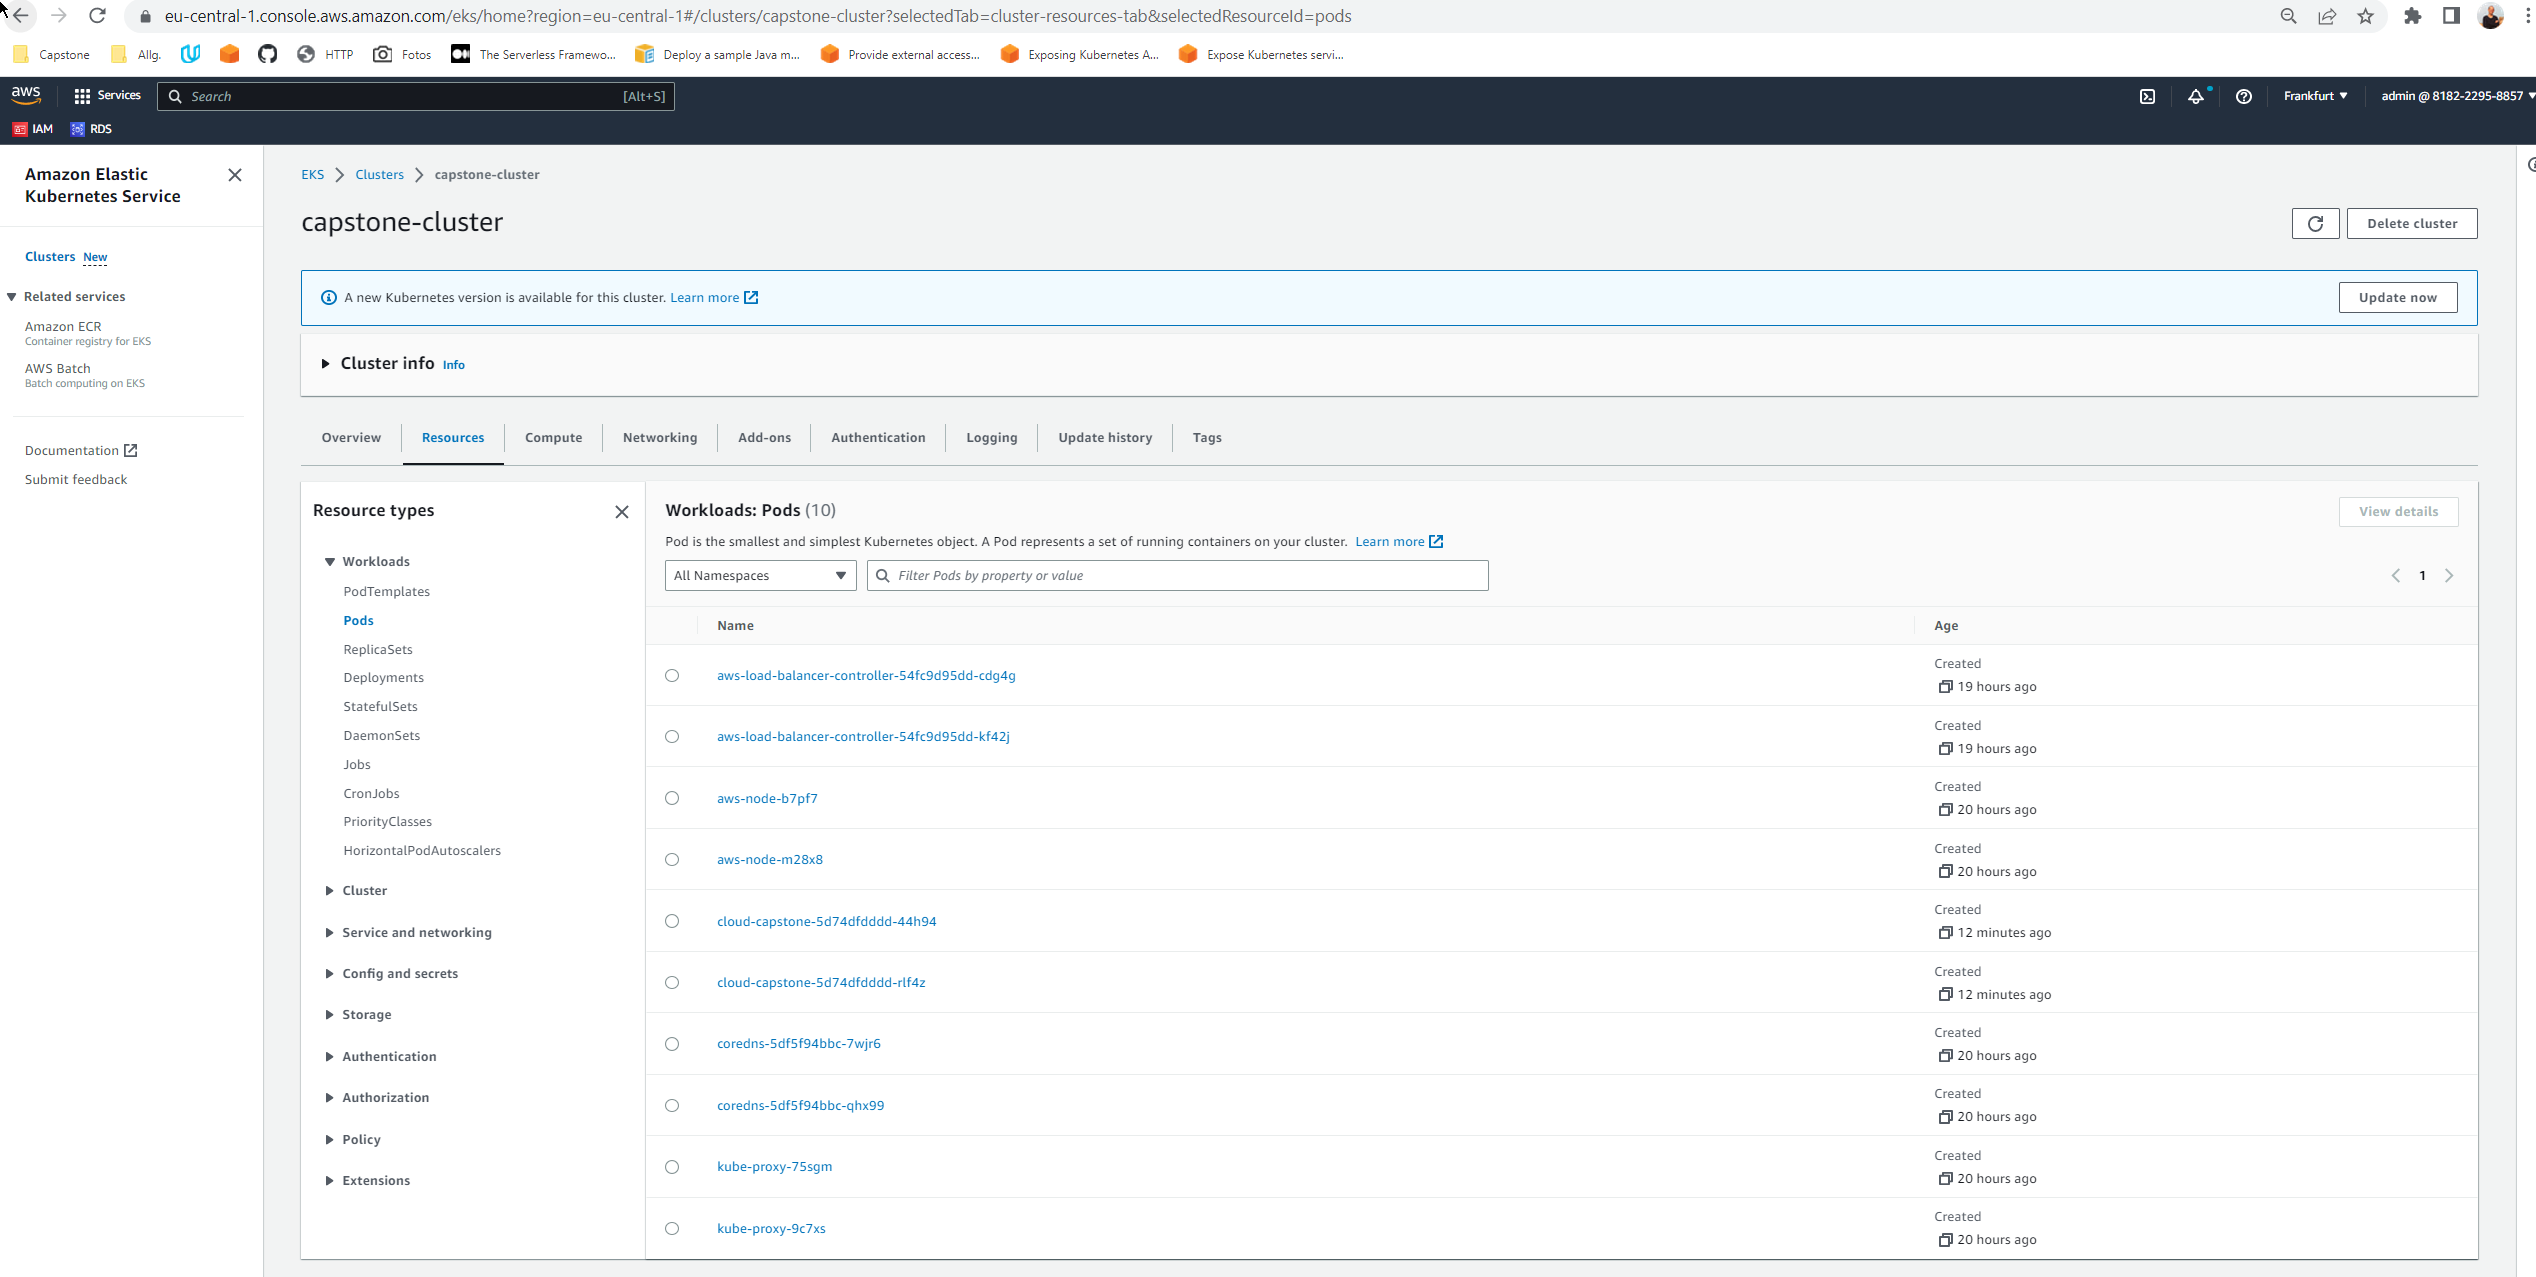
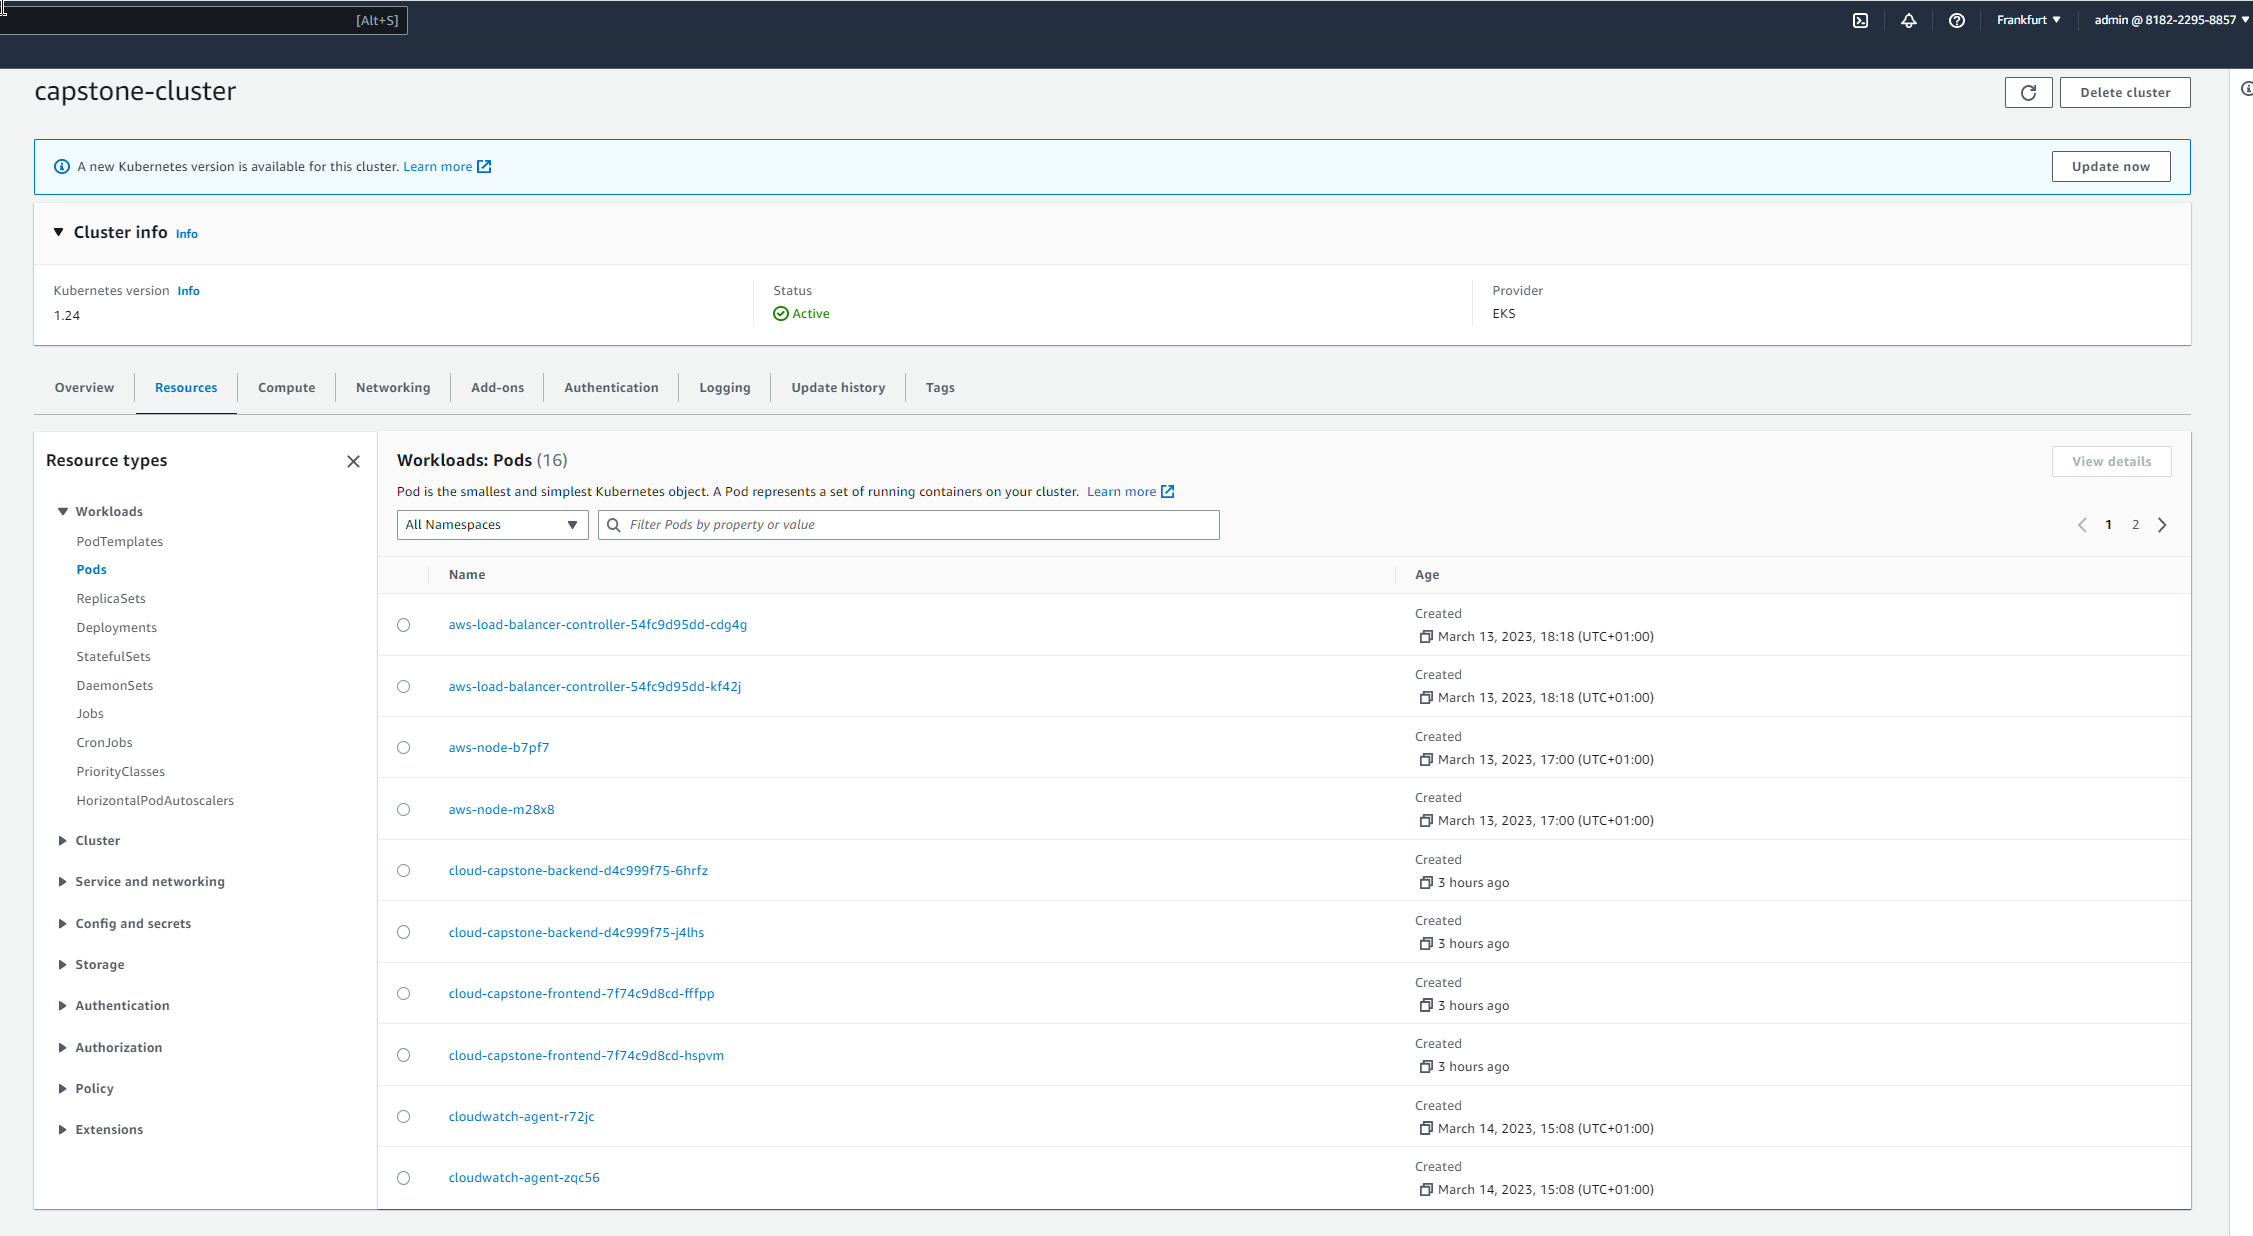
update screenshots, readme, & postman collection

diff --git a/README.md b/README.md
@@ -1,20 +1,19 @@
-# cloud-capstone-backend
-My final project for Udacity's _Cloud Developer Nanodegree_. This is an alternative implementation of the backend of the Todo application from chapter 4 of the Nanodegree based on Java and Spring Boot. The React frontend for this application is in the repository https://github.com/maloef/cloud-capstone-frontend. This is exactly the same code as in chapter 4 - I only updated the endpoint configuration.
+# cloud-capstone
+My final project for Udacity's _Cloud Developer Nanodegree_. This is an alternative implementation of the backend of the Todo application from chapter 4 of the Nanodegree based on Java and Spring Boot. I reused the React frontend from chapter 4 without any functional changes. Backend and frontend are deployed together in a Kubernetes cluster.
 
 ## General remarks
-* The backend behaves in the same way as the backend from chapter 4. Like in chapter 4, Auth0 is used for authentication.
 * The application uses a DynamoDB table and an S3 bucket. At startup, both are created if they don't exist yet.
-* The latest Docker image can be pulled from ECR with `docker pull public.ecr.aws/g4d6r5w8/cloud-capstone:latest`.
+* The latest Docker image can be pulled from ECR with `docker pull public.ecr.aws/g4d6r5w8/cloud-capstone-backend:latest` and `docker pull public.ecr.aws/g4d6r5w8/cloud-capstone-frontend:latest`
 * Continuous delivery:
     * New Docker images for backend and frontend are built automatically with GitHub actions when code is pushed to GitHub. This is configured in the two files in the folder `.github/workflows`.
     * GitHub pushes these images to AWS Elastic Container Registry.
     * The lastest image can be deployed with `kubectl rollout restart deploy cloud-capstone-backend` and `kubectl rollout restart deploy cloud-capstone-frontend`.
 
-## Setting up the project
+## Setting up the backend project
 * Check out the code.
 * Make sure to have AWS credentials with sufficient rights to create a DynamoDB table and an S3 bucket.
 * Use Maven to build the project (`mvn verify`) and to run the application locally (`mvn spring-boot:run`).
-* If the application is running, you can test it
-  * either with the frontend project (https://github.com/maloef/cloud-capstone-frontend) after setting the apiEndpoint in `src/config.ts` to `localhost:8080`
+* If the application is running, you can test it locally
+  * either with the frontend project after changing apiEndpoint and callbackUrl to the values that have been commented out
   * or with the Postman collection provided after entering a valid JWT for the `authToken` variable.
     
